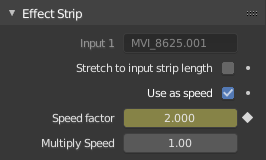
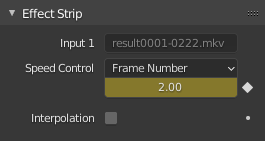
VSE: Update speed effect doc
Matches the new UI introduced in rBf013e3de81dad88

git-svn-id: https://svn.blender.org/svnroot/bf-manual/trunk/blender_docs@8226 c4de1f47-6596-e411-a384-0024e86c2797

diff --git a/manual/video_editing/sequencer/strips/effects/speed_control.rst b/manual/video_editing/sequencer/strips/effects/speed_control.rst
@@ -5,10 +5,9 @@ Speed Control Strip
 *******************
 
 Speed Control time-warps the strip, making it play faster or slower than it normally would.
-A *Global Speed* less than 1.0 makes the strip play slower; greater than 1.0
-makes it play faster. Playing faster means that some frames are skipped,
+Playing faster means that some frames are skipped,
 and the strip will run out of frames before the end frame.
-When the strip runs out of frames to display, it will just keep repeating the last one;
+When the strip runs out of frames to display, it will just keep repeating the last one
 action will appear to freeze. To avoid this,
 position the next strip under the original at a point where you want the motion to continue.
 
@@ -16,34 +15,28 @@ position the next strip under the original at a point where you want the motion 
 Options
 =======
 
-Stretch to Input Strip Length
+Stretch
    Automatically calculates the *Speed Factor* based on the length of the input strip.
    So if you make a strip 1/2 the original size the sequence will play back at 2 times the speed.
 
-Use as Speed
-   Calculates the scale value based on a *Speed Factor*.
+Multiply
+   Multiplies the current speed of the sequence by a *Factor*.
+   So, a value of 0.5 will make the sequence half as fast while 2 would make the sequence twice as fast.
 
    .. note::
 
       You will have to manually re-adjust the length of the strip accordingly.
-
-   Speed Factor
-      Multiplies the current speed of the sequence by this value.
-      So, a value of 0.5 will make the sequence half as fast while 2 would make the sequence twice as fast.
 
 Frame Number
    Specifies a frame to remap the current frame to,
    for example, setting this value to 50 displays the 50th frame.
    This can then be manually :doc:`keyframed </animation/keyframes/index>` to recreate the animation.
 
-   Scale to Length
-      Maps the frame range on a 0-1 scale. For example, using this and a *Frame Number*
-      of 0.5 will select the frame halfway through the sequence.
+Length
+   Maps the frame range on a 0%-100% scale. For example, using this and a value of 50%
+   will select the frame halfway through the sequence.
 
-Multiply Speed
-   A multiplier applied after all other calculations.
-
-Frame Interpolation
+Interpolation
    Crossfades between frames to reduce screen tearing when the speed is slower than the original frame rate.
 
 
@@ -57,8 +50,8 @@ Suppose you want to slow your strip down.
 You need to affect the speed of the video clip without affecting the overall frame rate.
 Select the clip and :menuselection:`Add --> Effect --> Speed Control` effect strip.
 Click to drop it and press :kbd:`N` to get the Properties.
-Uncheck the *Stretch to input strip length* option in the Effect Strip section.
-Set the Speed factor to be the factor by which you want to adjust the speed.
+Choose the *Multiply* option in the Effect Strip section.
+Set the Multiply Factor to be the factor by which you want to adjust the speed.
 To cut the displayed speed by 50%, enter 0.5.
 Now, a 275-frame clip will play at half speed, and thus display only the first 137 frames.
 
@@ -81,11 +74,10 @@ Keyframing the Speed Control
    Keyframing the Frame number.
 
 To get even finer control over your clip timing, you can use curves!
-While it is possible to keyframe the Speed factor,
+While it is possible to keyframe the Multiply factor,
 usually you want to keyframe the Frame number directly.
 
-Uncheck *Stretch to input strip length* and uncheck *Use as speed*.
-You now have a Frame number field which you can keyframe.
+Choose the *Frame Number* option. You now have a Frame number field which you can keyframe.
 If you want the strip to animate **at all** you will have to insert some keyframes,
 otherwise it will look like a still. In most cases you will want to use the Graph editor view
 to set the curve interpolation to Linear since the default Bézier will rarely be what you want.
@@ -104,9 +96,9 @@ Changing Video Frame Rates
 You can use the speed control to change the frame rate in frames per second (fps) of a video.
 If you are rendering your video to a sequence set,
 you can effectively increase or decrease the number of individual image files created,
-by using a Global Speed value less than or greater than one, respectively. For example,
+by using a Multiply value less than or greater than one, respectively. For example,
 if you captured a five-minute video at 30 fps and wanted to transfer that to film,
-which runs at 24 fps, you would enter a Global Speed of 30/24, or 1.25
+which runs at 24 fps, you would enter a Multiply Factor of 30/24, or 1.25
 (and Enable Frame Blending to give that film blur feel).
 Instead of producing ``5 × 60 × 30 = 9000`` frames,
 Blender would produce ``9000 / 1.25 = 7200 = 5 × 60 × 24`` frames.
